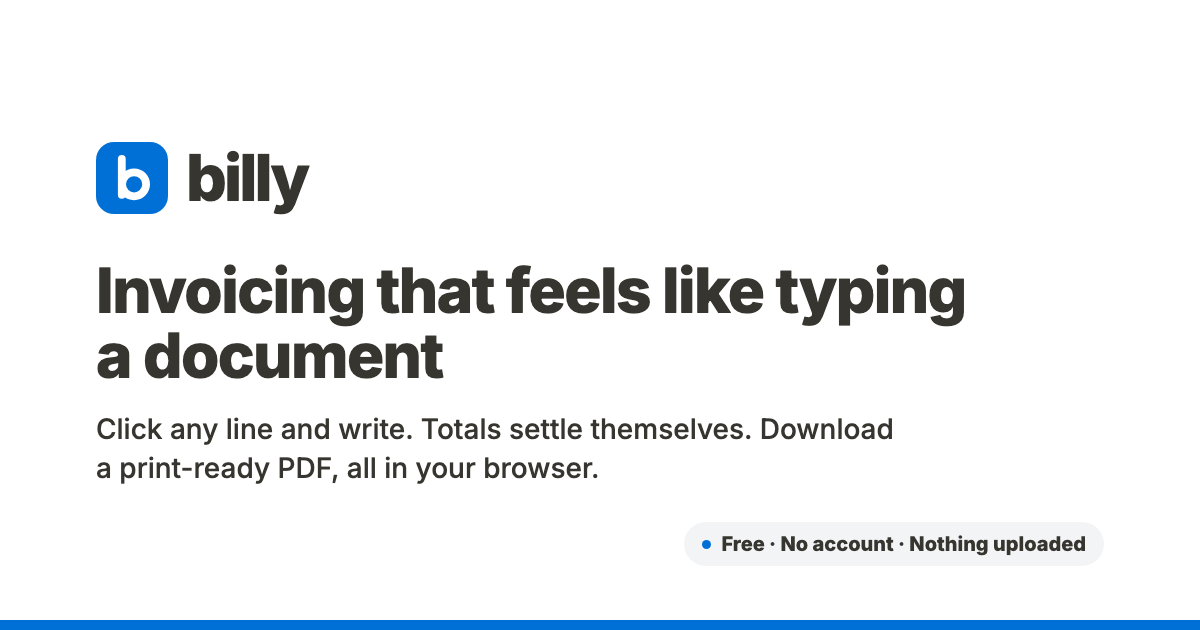
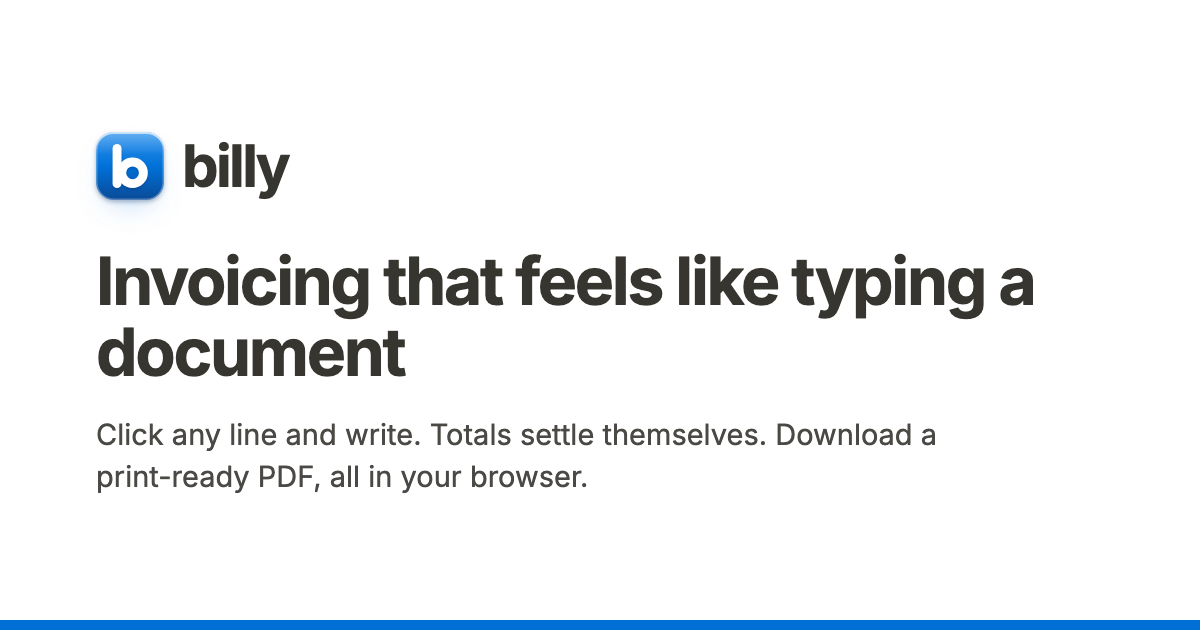
feat(brand): a glass tile for the "b"
The flat blue tile with a stroked stem-and-ring is now a glass tile: a
vertical gradient through #0070D7, a sheen along the top edge and a rim
light that is bright at the top and fades out. The "b" itself is solid —
a rounded stem and a filled bowl — so it still reads at 16px, and the
tile stays blue rather than near-black so it survives a dark tab strip.
Chroma stays blue-only per DESIGN.md.

In the app the gradients are CSS (.brandmark) rather than SVG: the mark
renders in the nav, the footer, the editor top bar and the 404, and
duplicated SVG gradient ids break whichever instance loses.

Standalone files keep their own gradients: app/icon.svg, brand/mark.svg
and brand/logo.svg. app/apple-icon.png is redrawn at 180x180, full-bleed
and opaque, because iOS masks the corners itself and fills transparent
ones with black. brand/og.png is regenerated with the new mark.

diff --git a/apps/web/components/brand.tsx b/apps/web/components/brand.tsx
@@ -1,17 +1,30 @@
 import Link from "next/link"
 
 /**
- * The Billy brand: a blue tile with a geometric "b" (the favicon), and the
- * wordmark in Inter 800. One component so the nav, editor top bar, footer
+ * The Billy brand: a glass tile carrying a geometric "b" (the favicon), and
+ * the wordmark in Inter 800. One component so the nav, editor top bar, footer
  * and 404 never drift apart. Assets for outside the app: public/brand/.
+ *
+ * The tile's gradients live in CSS (.brandmark, globals.css) rather than in
+ * the SVG: the mark renders several times on a page, and duplicated SVG
+ * gradient ids break whichever instance loses.
  */
 export function BrandMark({ size = 24, className }: { size?: number; className?: string }) {
   return (
-    <svg viewBox="0 0 24 24" width={size} height={size} className={className} aria-hidden focusable="false">
-      <rect width="24" height="24" rx="6" fill="#0070D7" />
-      <path d="M8.6 5.6V17.6" stroke="#fff" strokeWidth="2.6" strokeLinecap="round" />
-      <circle cx="12.7" cy="14.1" r="4" fill="none" stroke="#fff" strokeWidth="2.6" />
-    </svg>
+    <span
+      className={`brandmark${className ? ` ${className}` : ""}`}
+      style={{ width: size, height: size }}
+      aria-hidden
+    >
+      <svg viewBox="0 0 32 32" width={size} height={size} focusable="false">
+        <rect x="7.8" y="5.6" width="4.2" height="20.8" rx="2.1" fill="currentColor" />
+        <path
+          fill="currentColor"
+          fillRule="evenodd"
+          d="M24.4 19.2A7.2 7.2 0 1 1 10 19.2A7.2 7.2 0 1 1 24.4 19.2ZM20.2 19.2A3 3 0 1 1 14.2 19.2A3 3 0 1 1 20.2 19.2Z"
+        />
+      </svg>
+    </span>
   )
 }
 

diff --git a/apps/web/app/globals.css b/apps/web/app/globals.css
@@ -153,6 +153,38 @@
 .brand--lg .brand-word { font-size: 28px; }
 .brand--lg { gap: 11px; }
 
+/* The glass tile. Gradients here rather than in the SVG so the mark can be
+   rendered any number of times per page without duplicate gradient ids. */
+.brandmark {
+  position: relative;
+  display: inline-grid;
+  place-items: center;
+  flex: none;
+  border-radius: 26%;
+  color: #ffffff;
+  background: linear-gradient(180deg, #2e93ee 0%, #0070d7 52%, #0a4a97 100%);
+  box-shadow:
+    inset 0 0 0 1px rgba(255, 255, 255, 0.3),
+    inset 0 1px 0 rgba(255, 255, 255, 0.55),
+    0 1px 2px rgba(6, 40, 85, 0.3),
+    0 6px 16px -10px rgba(0, 112, 215, 0.7);
+}
+
+/* The top-edge sheen that reads as glass. */
+.brandmark::before {
+  content: "";
+  position: absolute;
+  inset: 0;
+  border-radius: inherit;
+  background: linear-gradient(180deg, rgba(255, 255, 255, 0.26), rgba(255, 255, 255, 0) 34%);
+  pointer-events: none;
+}
+
+.brandmark svg {
+  position: relative;
+  filter: drop-shadow(0 1px 0.5px rgba(6, 40, 85, 0.28));
+}
+
 
 .invoice-editor {
   color: var(--invoice-ink);
